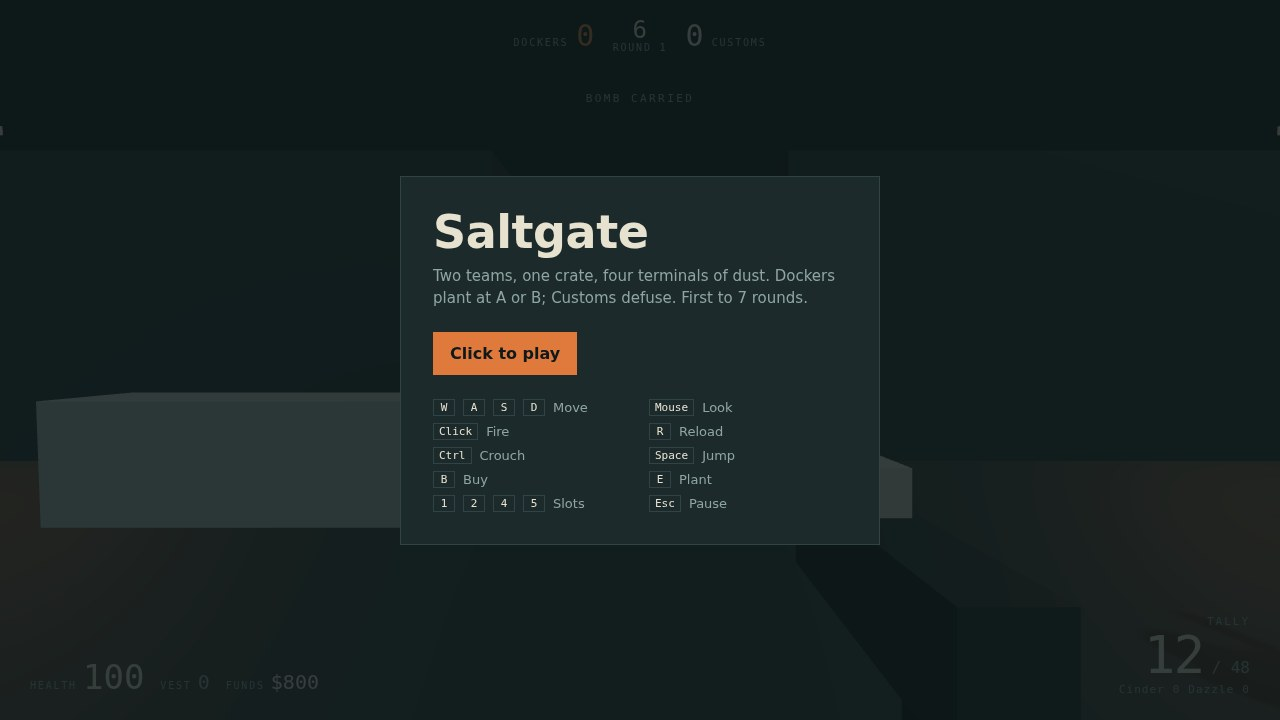
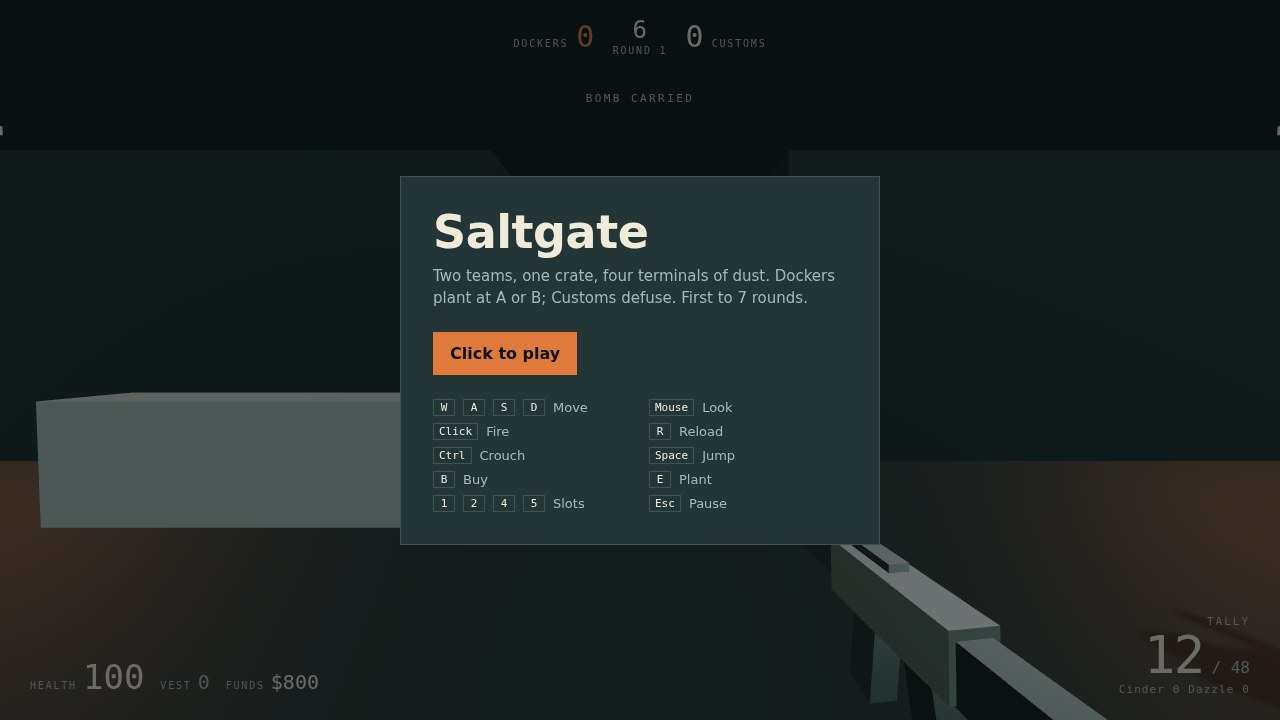
entry: build for threejs-fps-01

diff --git a/game/index.html b/game/index.html
@@ -16,7 +16,6 @@
     --muted: #a3b9b4;
     --accent: #e07a3c;
     --wound: #8c3226;
-    --panel: 2px;
     --font-ui: system-ui, -apple-system, 'Segoe UI', sans-serif;
     --font-readout: ui-monospace, 'SF Mono', Menlo, monospace;
   }
@@ -60,7 +59,7 @@
   .team-score .tag { font-size: 10px; letter-spacing: .18em; text-transform: uppercase; color: var(--muted); }
   #score-attack, #score-defend { font-size: 30px; line-height: 1; color: var(--ink); }
   #score-attack { color: var(--accent); }
-  #topline .middle { text-align: center; }
+  #topline .middle { display: grid; justify-items: center; gap: 3px; text-align: center; }
   #clock { font-size: 24px; line-height: 1; letter-spacing: .02em; }
   #round-label { font-size: 10px; letter-spacing: .18em; text-transform: uppercase; color: var(--muted); }
 

diff --git a/game/src/store.js b/game/src/store.js
@@ -5,14 +5,11 @@ import { ECONOMY } from './config.js';
 
 export const state = {
   time: 0,
-  tick: 0,
   phase: 'warmup',
   phaseTimer: 0,
   round: 1,
   scoreAttack: 0,
   scoreDefend: 0,
-  attackWins: 0,
-  defendWins: 0,
   lossStreak: { attack: 0, defend: 0 },
   playerTeam: 'attack',
   agents: [],
@@ -84,10 +81,8 @@ export function lossAward(streak) {
 export function addScore(team, points) {
   if (team === 'attack') {
     state.scoreAttack += points;
-    state.attackWins += 1;
   } else {
     state.scoreDefend += points;
-    state.defendWins += 1;
   }
   state.roundReason = '';
 }

diff --git a/game/src/view.js b/game/src/view.js
@@ -318,7 +318,7 @@ export function createView(scene, camera) {
       const visible = bomb.state === 'planted' || bomb.state === 'dropped';
       bombGroup.visible = visible;
       if (visible) {
-        bombGroup.position.set(bomb.position.x, bomb.state === 'planted' ? 0.13 : 0.13, bomb.position.z);
+        bombGroup.position.set(bomb.position.x, 0.13, bomb.position.z);
         bombGroup.rotation.y += dt * 0.4;
         const pulse = bomb.state === 'planted' ? Math.max(0, Math.sin(state.time * (bomb.timer < 10 ? 18 : 8))) : 0;
         bombLight.intensity = pulse * 6;

diff --git a/game/src/rounds.js b/game/src/rounds.js
@@ -24,8 +24,6 @@ export function beginMatch(rng) {
   state.round = 0;
   state.scoreAttack = 0;
   state.scoreDefend = 0;
-  state.attackWins = 0;
-  state.defendWins = 0;
   state.lossStreak.attack = 0;
   state.lossStreak.defend = 0;
   state.matchOver = false;
@@ -115,7 +113,6 @@ function plantBomb(carrier, site) {
   const bomb = state.bomb;
   bomb.state = 'planted';
   bomb.carrier = null;
-  bomb.planter = carrier;
   bomb.position.x = carrier.body.pos.x;
   bomb.position.y = 0.05;
   bomb.position.z = carrier.body.pos.z;

diff --git a/game/src/main.js b/game/src/main.js
@@ -250,8 +250,8 @@ function setupShot(name) {
     state.bomb.position.z = -14;
     state.bomb.timer = 26.4;
     state.bomb.beepTimer = 0.3;
-    placeBody(player.body, 17.5, -17.5);
-    aimAt(19, 0.15, -13.5);
+    placeBody(player.body, 16, -14);
+    aimAt(19, 0.2, -14);
     settle(3);
     hud.update();
   } else if (name === 'end') {

diff --git a/game/src/sim.js b/game/src/sim.js
@@ -21,7 +21,6 @@ export function createSim(seed = 7) {
     },
     step(dt, input) {
       state.time += dt;
-      state.tick += 1;
       if (state.paused) return;
 
       // The player's own weapon ticks inside stepPlayer; the bots' tick here.

diff --git a/game/src/bots.js b/game/src/bots.js
@@ -341,4 +341,3 @@ export function reportShot(shooter) {
     bot.ai.heardZ = shooter.body.pos.z;
   }
 }
-
